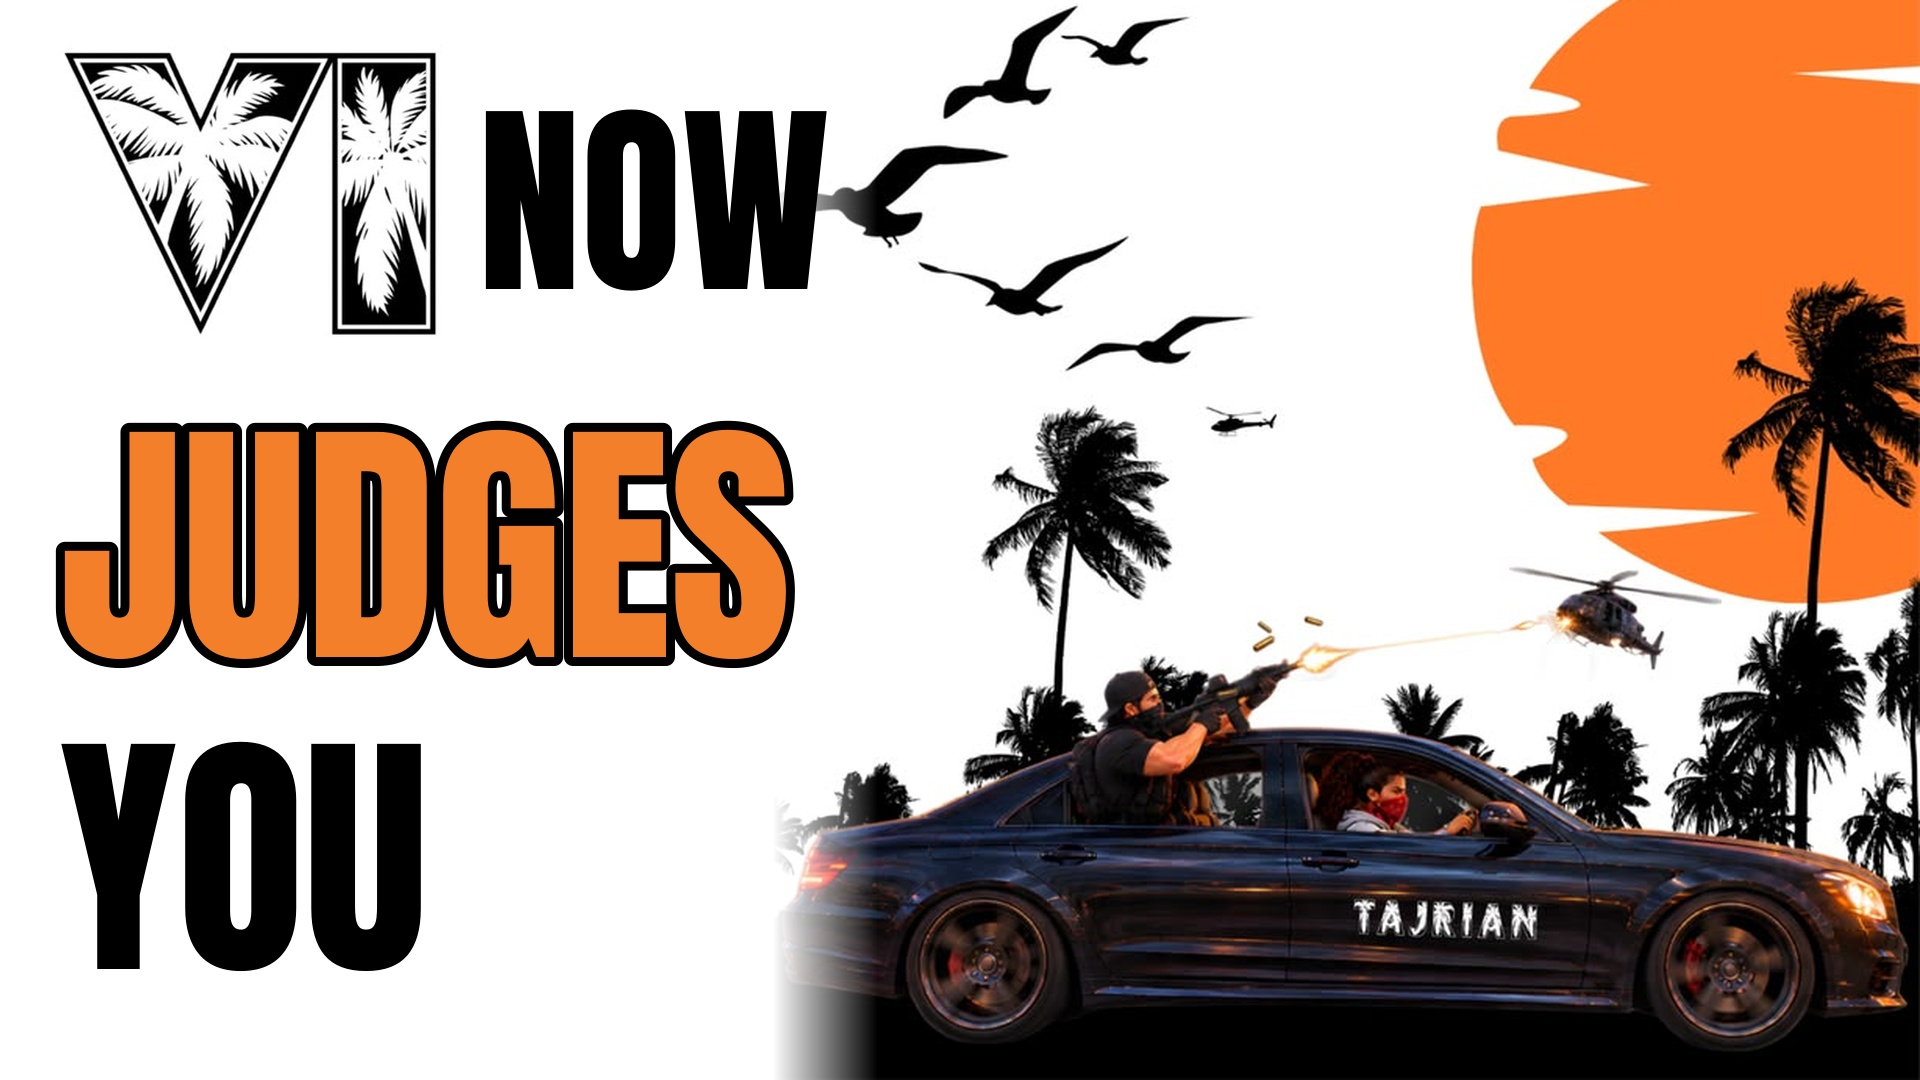
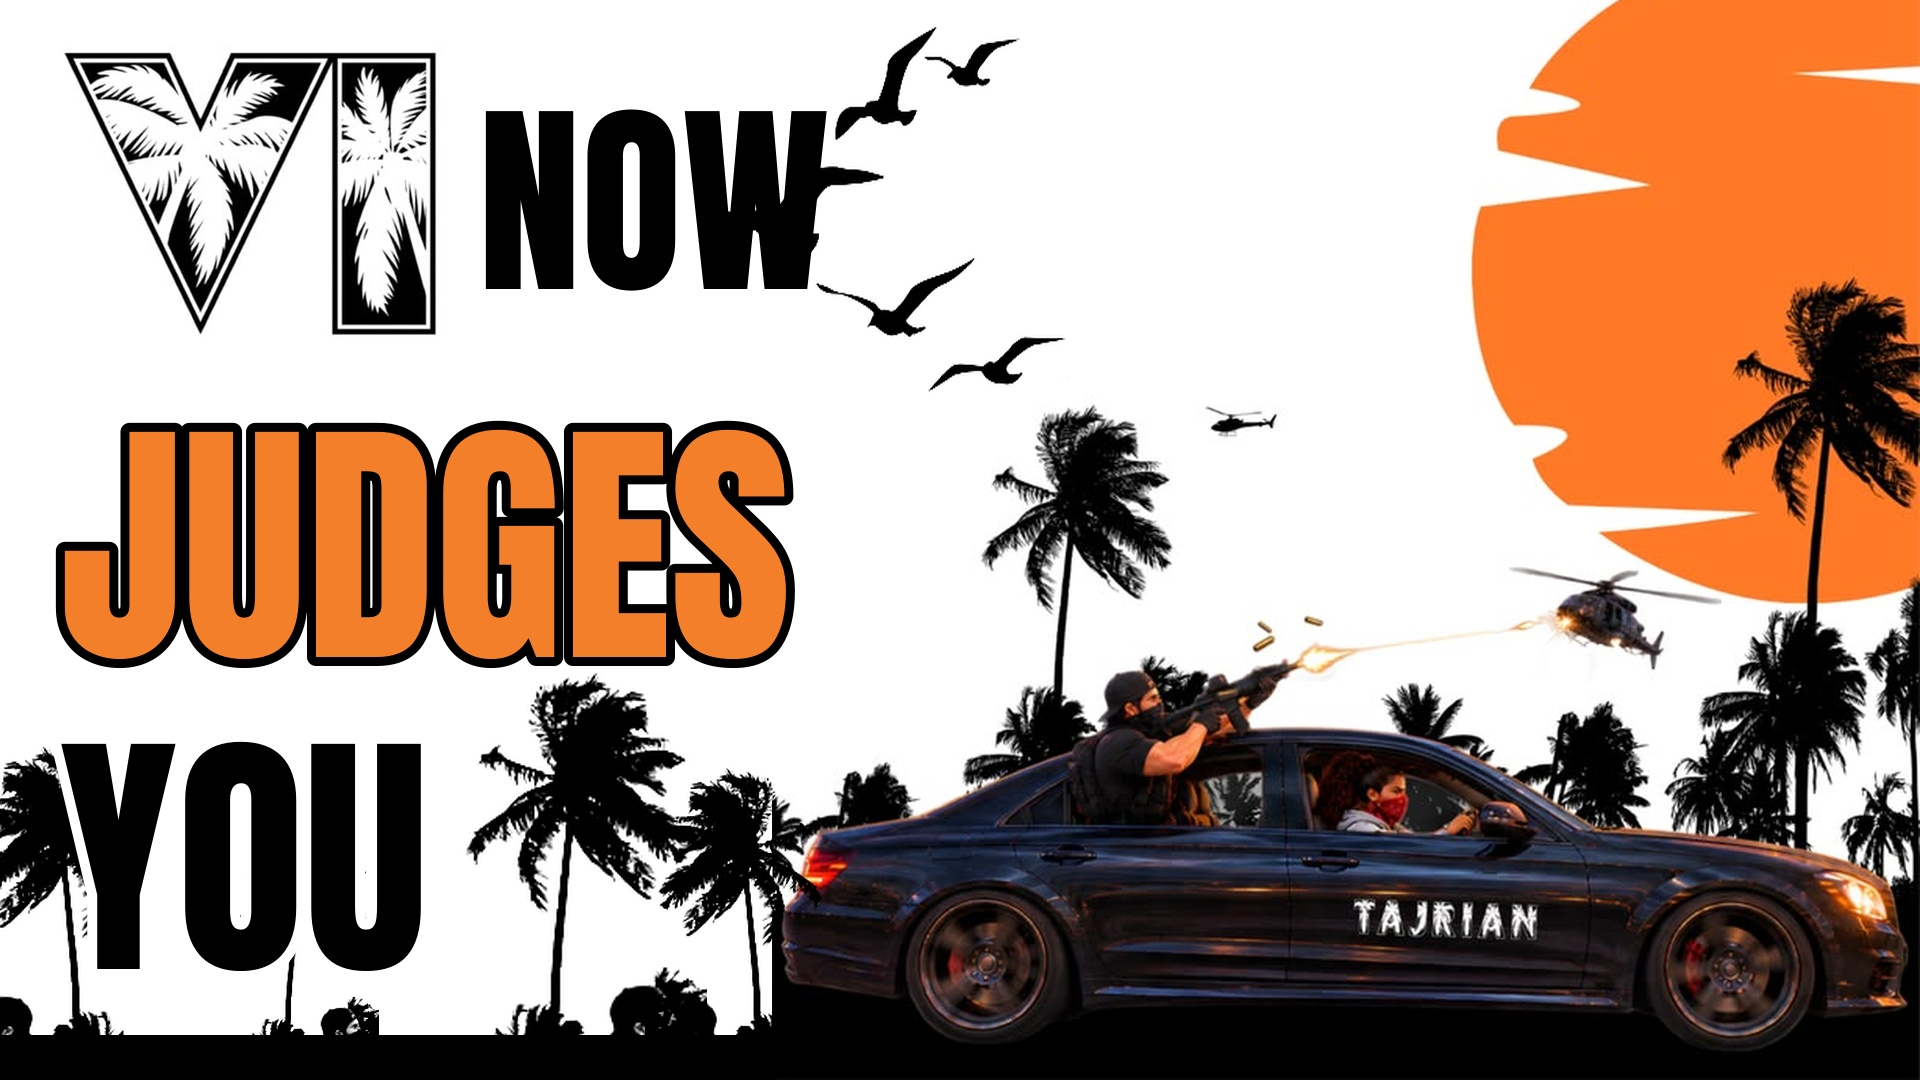
014 thumbnail v3.1: solid car, birds over text, palms behind YOU
Claude-Session: https://claude.ai/code/session_01DX4dbwA3bNBQnMT2RJeEkt

diff --git a/production/make_thumb014c.py b/production/make_thumb014c.py
@@ -1,26 +1,56 @@
-"""Thumbnail for 014 (v3), in the style of the user's 'VI' poster: white background, black palm 'VI' logo, orange sun,
-palm/bird silhouettes and the car scene. Text: [VI] NOW / JUDGES / YOU.  Usage: make_thumb014c.py out [--hd]"""
+"""Thumbnail for 014 (v3.1), in the style of the user's 'VI' poster: white page, black palm 'VI' logo, orange sun,
+car scene on the right (fully solid), palm silhouettes continuing behind 'YOU', and the birds flying over the words.
+Text: [VI] NOW / JUDGES / YOU.  Usage: make_thumb014c.py out [--hd]"""
 import sys
-from PIL import Image, ImageDraw, ImageFont
+from PIL import Image, ImageDraw, ImageFont, ImageOps
 S = 1.5 if "--hd" in sys.argv else 1.0; out = [x for x in sys.argv[1:] if x != "--hd"][0]
 s = lambda v: int(round(v * S)); W, H = s(1280), s(720)
 src = Image.open("remotion-overlays/public/frames/user-vi-sunset-style.jpg").convert("RGB")
-im = Image.new("RGB", (W, H), (255, 255, 255))
-# right: sun, birds, palms, helicopter and car (the poster's lower half), full height
-scene = src.crop((0, 412, src.width, src.height)); k = H / scene.height
+TOP = 412; k = H / (src.height - TOP)
+
+def silhouette(box, thr=110):
+    """Cut a black shape out of the white poster: dark pixels -> opaque black."""
+    c = src.crop(box); a = ImageOps.grayscale(c).point(lambda v: max(0, min(255, int((165 - v) * 255 / 105))))  # soft edge, no jaggies
+    sil = Image.new("RGBA", c.size, (0, 0, 0, 255)); sil.putalpha(a); return sil
+
+birds = silhouette((0, TOP, 312, 652))
+tall_palm = silhouette((126, 668, 266, 872))
+palm_cluster = silhouette((606, 806, 735, 948))   # start right of the helicopter rotor
+
+# right: the poster's lower half, birds removed from it (they move over the text), pasted fully solid
+scene = src.crop((0, TOP, src.width, src.height)).copy()
+ImageDraw.Draw(scene).rectangle((0, 0, 312, 652 - TOP), fill=(255, 255, 255))
 scene = scene.resize((int(scene.width * k), H), Image.LANCZOS)
-m = Image.new("L", scene.size, 255); md = ImageDraw.Draw(m); fw = s(70)
-for x in range(fw): md.line((x, 0, x, scene.height), fill=int(255 * x / fw))   # melt the left edge into the white page
-im.paste(scene, (W - scene.width, 0), m)
-# left: the poster's own black palm-tree 'VI' as the first word
+sx = W - scene.width
+im = Image.new("RGBA", (W, H), (255, 255, 255, 255)); im.paste(scene, (sx, 0))
+
+# ground: find the poster's dark ground band at its left edge and continue it across to the left of the page
+g = H - s(30)   # the poster's thin ground line
+ImageDraw.Draw(im).rectangle((0, g, sx + 2, H), fill=(0, 0, 0, 255))
+
+# palms behind 'YOU': the poster's own silhouettes, standing on that ground
+def plant(sil, h, x, flip=False):
+    sh = sil.resize((int(sil.width * h / sil.height), h), Image.LANCZOS)
+    if flip: sh = ImageOps.mirror(sh)
+    im.alpha_composite(sh, (x, g - h + s(4)))
+plant(tall_palm, s(200), s(-30), flip=True)     # whole palms only (no cut-off clusters)
+plant(tall_palm, s(150), s(150))
+plant(tall_palm, s(250), s(300))
+plant(tall_palm, s(185), s(430), flip=True)       # also hides the edge where the poster scene starts
+
+# text
 vi = src.crop((172, 152, 502, 404)); vk = s(195) / vi.height
 vi = vi.resize((int(vi.width * vk), s(195)), Image.LANCZOS); im.paste(vi, (s(40), s(30)))
 d = ImageDraw.Draw(im); F = "remotion-overlays/public/fonts/Anton-Regular.ttf"
-def word(t, size, x, y, fill, maxw, stroke=0):
+def word(t, size, x, y, fill, maxw, stroke=0, sfill=(0, 0, 0)):
     f = ImageFont.truetype(F, s(size))
     while d.textlength(t, font=f) > maxw: size -= 4; f = ImageFont.truetype(F, s(size))
-    d.text((x, y), t, font=f, fill=fill, stroke_width=stroke, stroke_fill=(0, 0, 0))
+    d.text((x, y), t, font=f, fill=fill, stroke_width=stroke, stroke_fill=sfill)
 word("NOW", 150, s(40) + vi.width + s(24), s(30), (0, 0, 0), s(240))
-word("JUDGES", 175, s(40), s(232), (244, 127, 42), s(560), stroke=s(6))   # the poster's sun orange
-word("YOU", 175, s(40), s(440), (0, 0, 0), s(560))
-im.save(out, quality=95); print(out, im.size)
+word("JUDGES", 175, s(40), s(232), (244, 127, 42), s(560), stroke=s(6))
+word("YOU", 175, s(40), s(440), (0, 0, 0), s(560), stroke=s(7), sfill=(255, 255, 255))  # white edge so it reads over the palms
+
+# birds on top, flying across the words
+bk = s(190) / birds.height; bb = birds.resize((int(birds.width * bk), s(250)), Image.LANCZOS)
+im.alpha_composite(bb, (s(470), s(14)))   # crossing the top of 'NOW' towards the sun
+im.convert("RGB").save(out, quality=95); print(out, im.size, "ground y", g)
